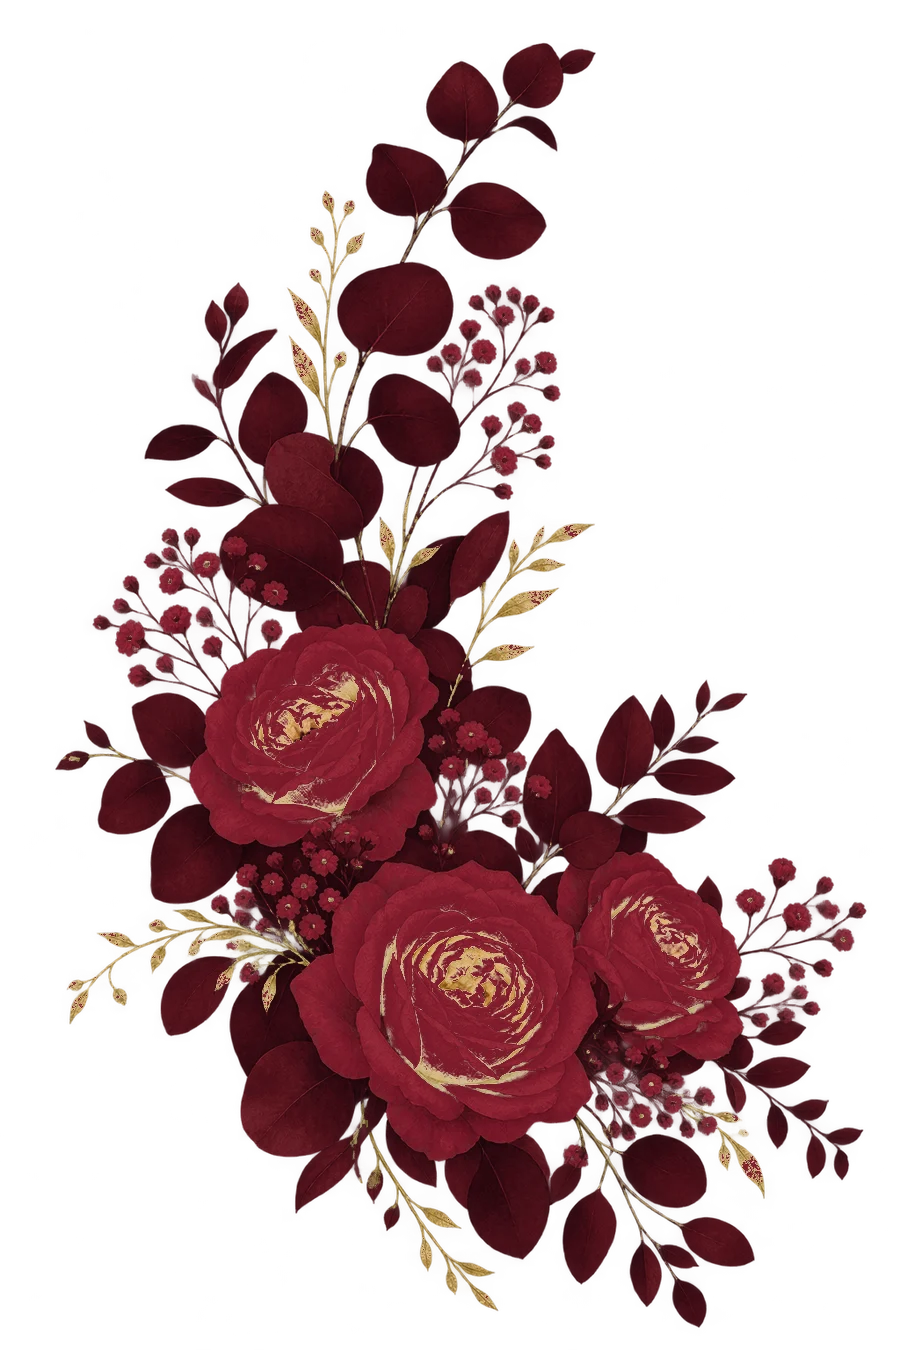
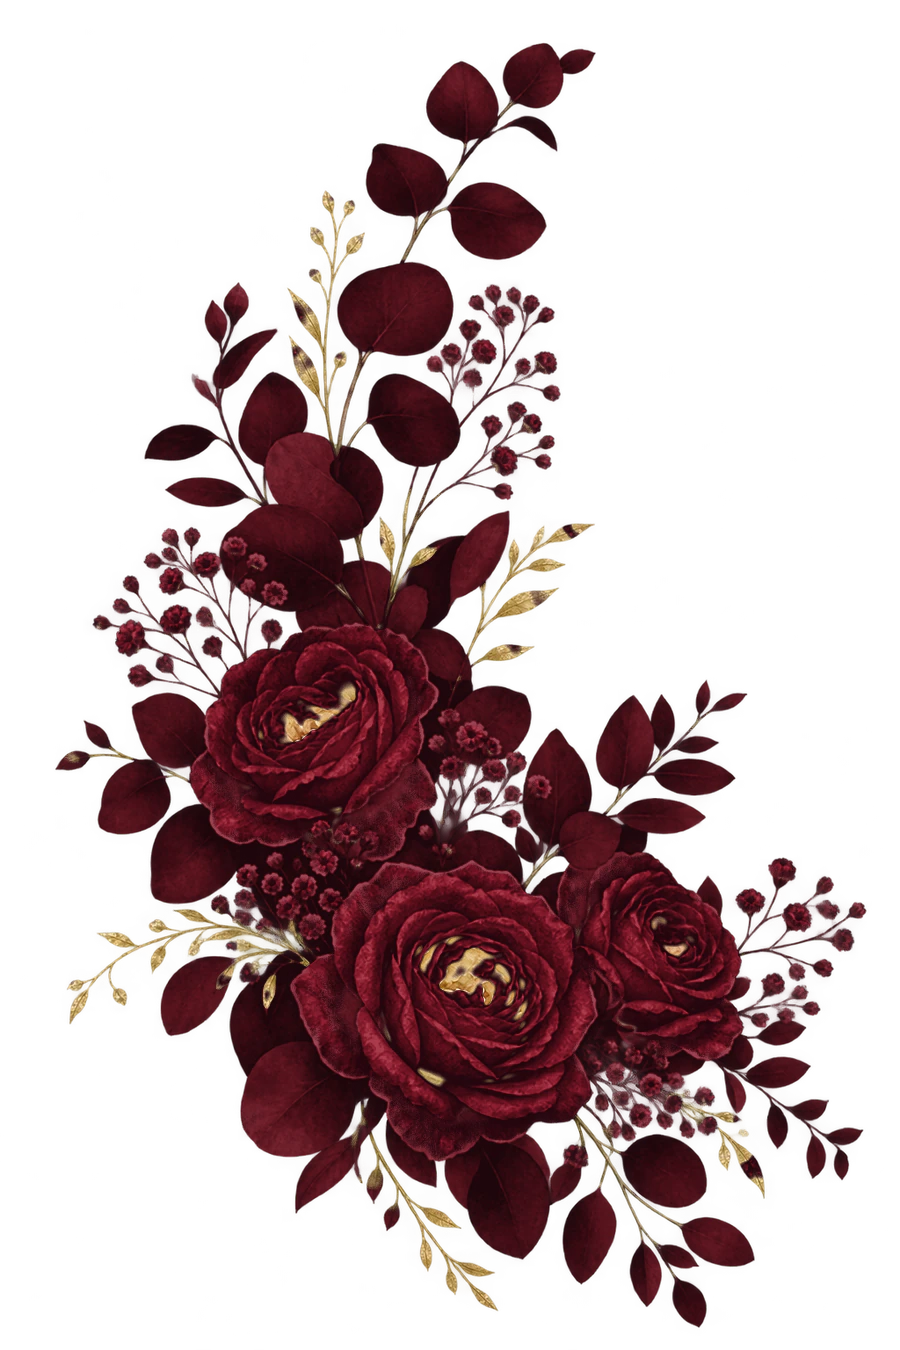
update asset

diff --git a/components/invitation/templates/ibnu-dinata-client.tsx b/components/invitation/templates/ibnu-dinata-client.tsx
@@ -18,7 +18,7 @@ function GuestName() {
 }
 
 export function FloralOrnament({ kind = "corner", className = "", priority = false }: { kind?: "arch" | "corner"; className?: string; priority?: boolean }) {
-  return <Image src={`/images/invitations/ibnu-dinata/${kind === "arch" ? "floral-arch" : "corner-bouquet"}-burgundy.webp`} width={kind === "arch" ? 1400 : 1000} height={kind === "arch" ? 700 : 1000} alt="" aria-hidden="true" className={`${styles.floralOrnament} ${className}`} loading={priority ? "eager" : "lazy"} fetchPriority={priority && kind === "arch" ? "high" : undefined} sizes={kind === "arch" ? "(min-width: 620px) 720px, 120vw" : "(min-width: 620px) 320px, 60vw"} />;
+  return <Image src={`/images/invitations/ibnu-dinata/${kind === "arch" ? "floral-arch" : "corner-bouquet"}-burgundy.webp`} width={kind === "arch" ? 1400 : 1000} height={kind === "arch" ? 700 : 1000} alt="" aria-hidden="true" quality={90} className={`${styles.floralOrnament} ${className}`} loading={priority ? "eager" : "lazy"} fetchPriority={priority && kind === "arch" ? "high" : undefined} sizes={kind === "arch" ? "(min-width: 620px) 720px, 120vw" : "(min-width: 620px) 320px, 60vw"} />;
 }
 
 // React ids contain characters that are awkward inside url(#…) references.

diff --git a/next.config.ts b/next.config.ts
@@ -7,6 +7,8 @@ const siteUrl = (
 const nextConfig: NextConfig = {
   allowedDevOrigins: ["127.0.0.1", "localhost"],
   images: {
+    // 90 is used by the detailed watercolor ornaments; everything else keeps the default 75.
+    qualities: [75, 90],
     remotePatterns: [
       { protocol: "https", hostname: "images.unsplash.com" },
       { protocol: "https", hostname: "images.pexels.com" },

diff --git a/public/images/invitations/ibnu-dinata/ASSETS.md b/public/images/invitations/ibnu-dinata/ASSETS.md
@@ -11,7 +11,7 @@ Original imagegen prompts specified fine botanical detail, a muted sage/ivory pa
 
 ## Burgundy recolor (2 November 2026)
 
-The three floral assets were originally generated in sage and ivory. To match the red curtains and maroon kebaya in the photos they were recolored pixel by pixel with Sharp (raw RGBA, alpha preserved) and saved as new `*-burgundy.webp` files; the sage versions were removed. Each pixel is weighted by hue, chroma and luminance: sage foliage is gradient-mapped to deep wine (`#1a0408` → `#74222c`), ivory petals and baby's breath to burgundy (`#1e030a` → `#9a2a38`, capped so highlights never read as pink), and antique-gold stems keep their original colour. Watercolor shading is carried through by luminance. No CSS filter is applied on the page.
+The three floral assets were originally generated in sage and ivory. To match the red curtains and maroon kebaya in the photos they were recolored pixel by pixel with Sharp (raw RGBA, alpha preserved) and saved as new `*-burgundy.webp` files; the sage versions were removed. Class weights (sage foliage, ivory petals, antique gold) are computed from an alpha-aware blurred copy (σ 3) so neighbouring watercolor pixels share one class instead of speckling. Foliage is gradient-mapped to deep wine (`#1c0409` → `#9a4452`) and petals to burgundy (`#22030b` → `#a8394a`, with a 2.2 gamma so petal shading survives), each stretched over its own luminance percentiles; gold stems and stamens keep their original colour. Mapping luminance is lightly smoothed (σ 0.8) so paper grain is not amplified. Output is WebP quality 92 with `smartSubsample` to keep saturated reds sharp, and the page requests these files at quality 90 (`images.qualities` in `next.config.ts`). No CSS filter is applied on the page.
 
 ## Prewedding photographs
 
